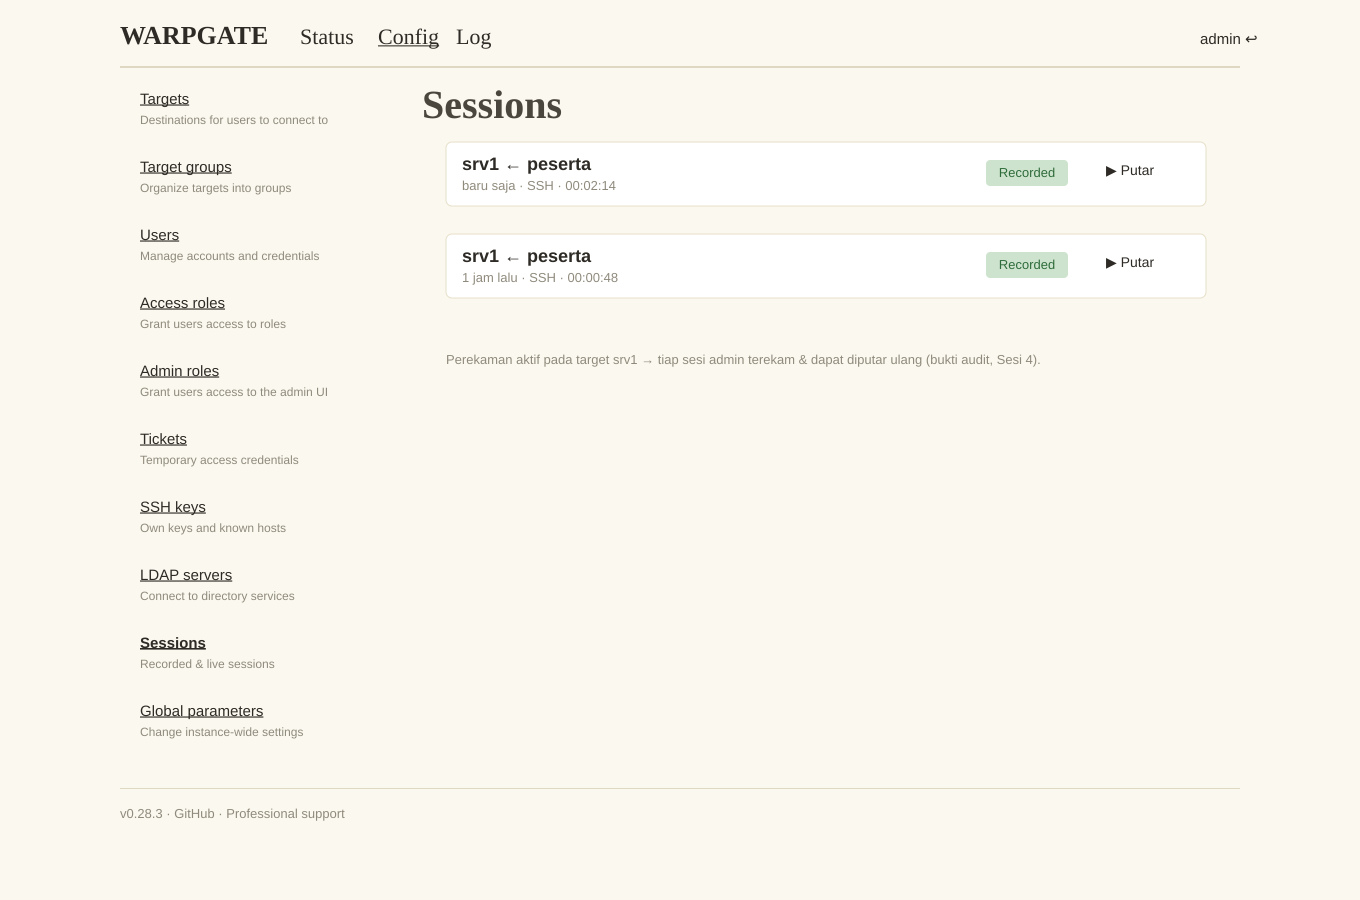
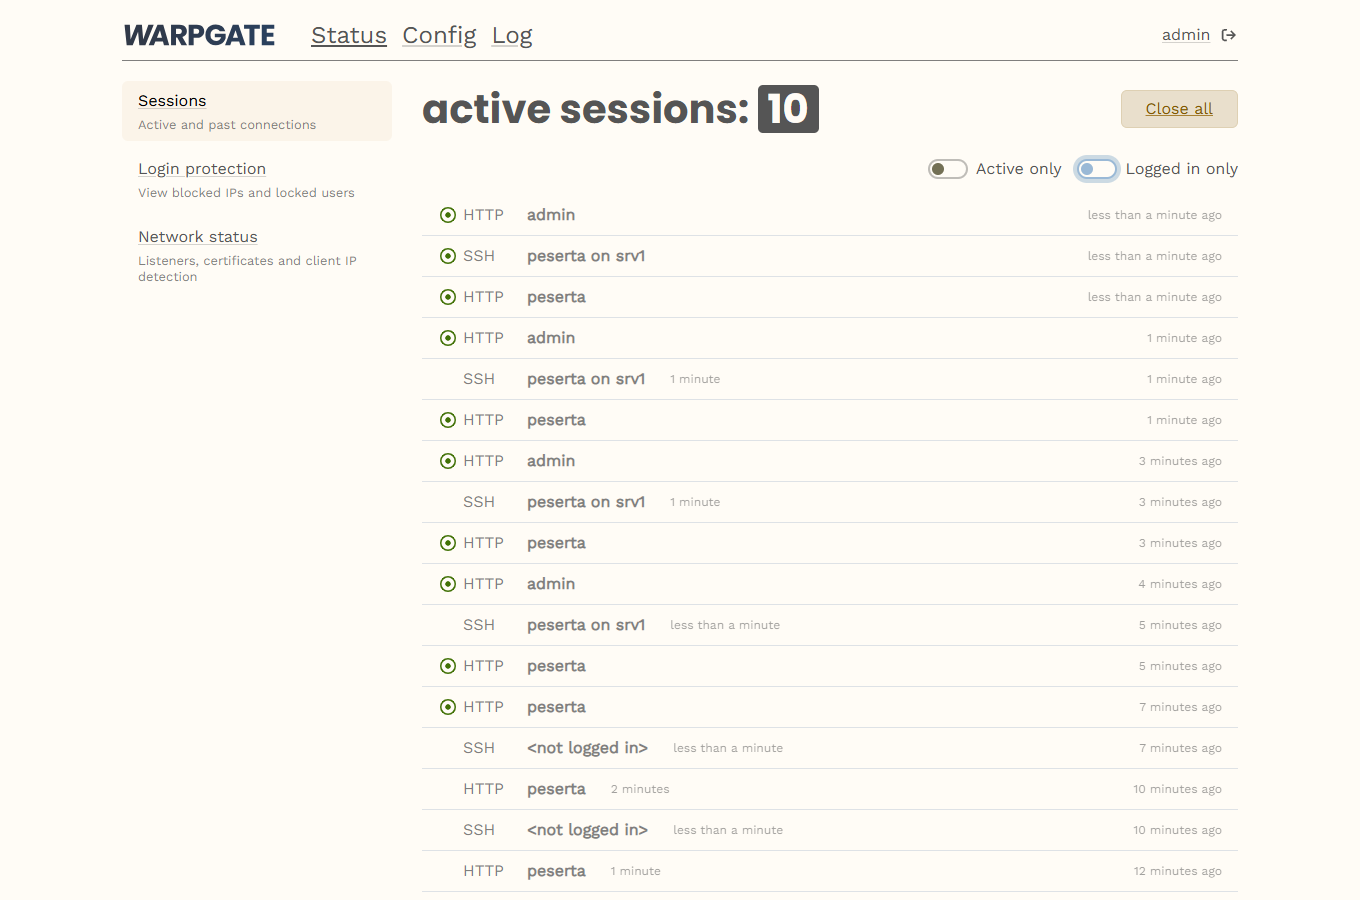
Sesi 3: ganti gambar dengan screenshot NYATA dari lab live (OpenBao, srv1 SSH CA, konsol Warpgate, SSO Keycloak, approval security key, terminal web srv1, sesi terekam + rekaman); C3 prasyarat SSO (CA Caddy, external_port, emailVerified)

diff --git a/sesi-3-pam/README.md b/sesi-3-pam/README.md
@@ -176,7 +176,7 @@ sso_providers:
       client_id: warpgate
       client_secret: <secret client warpgate dari Keycloak>
       issuer_url: https://kc.iamlab.test/realms/iamlab
-      scopes: ["email"]
+      scopes: ["openid", "email"]
 ```
 ```bash
 # (3) salin balik ke container & restart
@@ -184,6 +184,25 @@ docker compose cp ./warpgate.yaml warpgate:/data/warpgate.yaml
 docker compose restart warpgate
 ```
 → Halaman login bastion kini menampilkan tombol **"Keycloak (iamlab)"**.
+
+> **⚠ Tiga penyesuaian WAJIB agar SSO bastion berfungsi** (sekali, saat setup):
+> 1. **Warpgate percaya CA Caddy** (discovery OIDC ke `https://kc.iamlab.test`). Buat bundle =
+>    root sistem + root Caddy, lalu arahkan `SSL_CERT_FILE`:
+>    ```bash
+>    docker compose exec -T warpgate cat /etc/ssl/certs/ca-certificates.crt > certs/ca-bundle-warpgate.crt
+>    cat caddy/data/caddy/pki/authorities/local/root.crt >> certs/ca-bundle-warpgate.crt
+>    echo 'WARPGATE_SSL_CERT_FILE=/certs/ca-bundle-warpgate.crt' >> .env   # dibaca compose
+>    docker compose up -d warpgate
+>    ```
+> 2. **URL eksternal lewat 443 (Caddy)** agar `redirect_uri` cocok dengan client Keycloak. Di
+>    `/data/warpgate.yaml` seksi `http:`, set `external_host: pam.iamlab.test`, `external_port: 443`,
+>    `trust_x_forwarded_headers: true` (lalu `docker compose restart warpgate`). Tanpa ini Keycloak
+>    menolak: *Invalid parameter: redirect_uri* (Warpgate mengirim `:8888`).
+> 3. **Email akun Keycloak terverifikasi** — Warpgate menolak SSO *"e-mail is not verified"*. Set
+>    sekali: `docker compose exec keycloak /opt/keycloak/bin/kcadm.sh update users/<id> -r iamlab -s emailVerified=true`.
+>
+> *(Setelah menyunting `warpgate.yaml`, pastikan kepemilikannya uid 1000 & mode 600 agar Warpgate
+> mau memuatnya; dan isi `sso_providers` yang ADA — jangan menambah kunci `sso_providers` kedua.)*
 
 **C4. Tambah target `srv1` 🌐** — **Config → Targets → Add → SSH**: Name `srv1`, Host `10.10.10.20`,
 Port `22`, Username `labadmin`, Authentication **Public key**, Session recording **Enabled**.
@@ -215,21 +234,44 @@ Peserta **tidak** SSH langsung ke server — selalu lewat bastion. Format Warpga
 ```bash
 ssh -p 2222 peserta:srv1@pam.iamlab.test
 ```
-Warpgate **mencegat** koneksi lalu meminta autentikasi SSO: ia menampilkan **URL** untuk dibuka di
-browser → **Keycloak** meminta sandi lalu **kode OTP (MFA, Sesi 2)** → setelah lolos, sesi
-diteruskan ke `srv1` dan **direkam**.
+Warpgate **mencegat** koneksi lalu menampilkan **URL** + **security key** untuk diverifikasi di browser:
 
-![Terminal — SSH via bastion: Warpgate mencegat, buka URL SSO, Keycloak minta OTP, lalu tersambung](gambar/bastion-sso-mfa.png)
+![Terminal — SSH via bastion: Warpgate meminta verifikasi autentikasi SSO di browser + security key](gambar/bastion-ssh.png)
 
-*Gambar 9. Terminal — interupsi **SSO + MFA** saat SSH via bastion, lalu tersambung ke `srv1`*
+*Gambar 9. Terminal — bastion meminta autentikasi SSO (URL + security key)*
 
-Setelah autentikasi Anda berada di `srv1` sebagai `labadmin` (`hostname` → `srv1`) **tanpa pernah
-memegang sandi server**. Sesi muncul **terekam** di **Config → Sessions** dan dapat diputar ulang
-(bukti audit, Sesi 4):
+Buka URL → **Keycloak** meminta login (SSO). Bila **MFA/OTP** diaktifkan (Sesi 2), Keycloak juga
+meminta kode OTP di langkah ini:
 
-![Warpgate — Sessions: sesi srv1 ← peserta berstatus Recorded, bisa diputar ulang](gambar/warpgate-sessions.png)
+![Keycloak — halaman login SSO saat akses bastion (realm iamlab)](gambar/bastion-sso.png)
 
-*Gambar 10. Warpgate — Sessions (sesi `srv1 ← peserta` terekam)*
+*Gambar 10. Keycloak — login SSO saat akses bastion*
+
+Setelah login, Warpgate menampilkan **permintaan otorisasi**: cocokkan **security key** di layar
+dengan yang tampil di terminal, lalu klik **Authorize** (konfirmasi *out-of-band*):
+
+![Warpgate — authorization request: cocokkan security key lalu Authorize](gambar/bastion-approve.png)
+
+*Gambar 11. Warpgate — persetujuan sesi SSH (security key, *out-of-band*)*
+
+Sesi lalu diteruskan ke `srv1` sebagai `labadmin` **tanpa peserta memegang sandi server**. Akses
+dapat lewat klien SSH atau **terminal web** di portal Warpgate (`https://pam.iamlab.test`):
+
+![Warpgate — terminal web ke srv1 (labadmin), hostname srv1](gambar/bastion-webterm.png)
+
+*Gambar 12. Terminal web Warpgate ke `srv1` (via bastion, tersambung)*
+
+Setiap sesi **terekam** dan tampil di **Status → Sessions** (SSH `peserta on srv1`):
+
+![Warpgate — Status: daftar sesi, SSH peserta on srv1 (aktif & lampau)](gambar/warpgate-sessions.png)
+
+*Gambar 13. Warpgate — Status/Sessions (sesi `peserta on srv1`)*
+
+Detail sesi menampilkan **rekaman (Live view)** dan **log perintah** — bukti audit untuk Sesi 4:
+
+![Warpgate — detail sesi: live view shell + log perintah (whoami; hostname; uptime)](gambar/warpgate-session-detail.png)
+
+*Gambar 14. Warpgate — detail sesi (rekaman + log perintah)*
 
 ### D. Serah-terima kredensial via email + formulir
 Akses istimewa tidak diberikan lisan — alurnya berbasis **email + formulir yang dikembalikan**.
